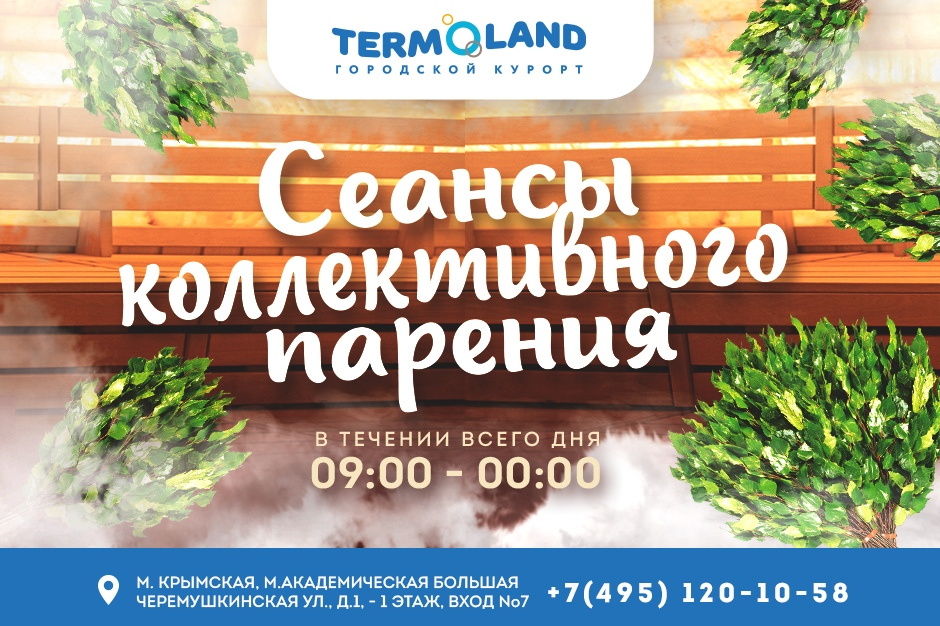
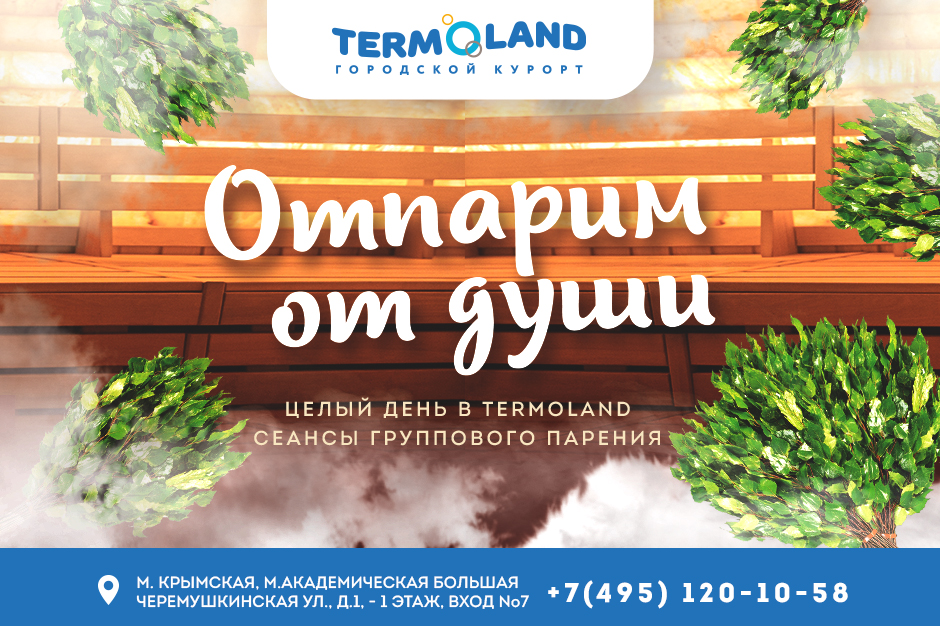
change share

diff --git a/index.html b/index.html
@@ -1244,9 +1244,6 @@
 						<a href="#second-share" class="shares__img popup-link">
 							<img src="images/content_img/shares/02.jpg" alt="">
 						</a>
-						<a href="#third-share" class="shares__img popup-link">
-							<img src="images/content_img/shares/03.jpg" alt="">
-						</a>
 						<a href="#fourth-share" class="shares__img popup-link">
 							<img src="images/content_img/shares/04.jpg" alt="">
 						</a>
@@ -1257,38 +1254,11 @@
 						<a href="#second-share" class="shares__img popup-link">
 							<img src="images/content_img/shares/02.jpg" alt="">
 						</a>
-						<a href="#third-share" class="shares__img popup-link">
-							<img src="images/content_img/shares/03.jpg" alt="">
-						</a>
 						<a href="#fourth-share" class="shares__img popup-link">
 							<img src="images/content_img/shares/04.jpg" alt="">
 						</a>
 
-						<a href="#first-share" class="shares__img popup-link">
-							<img src="images/content_img/shares/01.jpg" alt="">
-						</a>
-						<a href="#second-share" class="shares__img popup-link">
-							<img src="images/content_img/shares/02.jpg" alt="">
-						</a>
-						<a href="#third-share" class="shares__img popup-link">
-							<img src="images/content_img/shares/03.jpg" alt="">
-						</a>
-						<a href="#fourth-share" class="shares__img popup-link">
-							<img src="images/content_img/shares/04.jpg" alt="">
-						</a>
 
-						<a href="#first-share" class="shares__img popup-link">
-							<img src="images/content_img/shares/01.jpg" alt="">
-						</a>
-						<a href="#second-share" class="shares__img popup-link">
-							<img src="images/content_img/shares/02.jpg" alt="">
-						</a>
-						<a href="#third-share" class="shares__img popup-link">
-							<img src="images/content_img/shares/03.jpg" alt="">
-						</a>
-						<a href="#fourth-share" class="shares__img popup-link">
-							<img src="images/content_img/shares/04.jpg" alt="">
-						</a>
 					</div>
 				</div>
 			</section>
@@ -1676,28 +1646,17 @@
 		<div class="popup__wrapper">
 			<div class="popup__content-block popup__content">
 				<div class="popup__block">
-					<h2 class="popup__title">ХЕЛЛОУИН</h2>
+					<h2 class="popup__title"></h2>
 					<div class="popup__body">
 						<div class="popup__img">
 							<img src="images/content_img/shares/03.jpg" alt="">
 							<div>
-								<p class="popup__date-info">время действия акции 30 октября - 1 ноября</p>
-								<p class="popup__date-info">0+</p>
+								<p class="popup__date-info"></p>
+								<p class="popup__date-info"></p>
 							</div>
 						</div>
 						<div class="popup__info">
-							<p>Тебе будет страшно... Страшно круто!</p>
-							<p>Мы представляем самую оригинальную вечеринку этого года - РУССКИЙ НАРОДНЫЙ ХЕЛЛУИН</p>
-							<p>С 30 октября по 1 ноября вас ждут:<br>
-								- Парения с чемпионами России Артемом Казельским и Артемом Габдулиным<br>
-								- Ритуалы по защите от злых духов<br>
-								- Шаманские музыкальные парен<br>
-								- Мистические джакузи<br>
-								- Анимационная программа для детей<br>
-								- И ПЕРВЫЙ В МИРЕ тыквенный бассейн</p>
-							<p>ТАКОГО ЕЩЁ НЕ БЫЛО<br>
-								Меняйте планы на выходные!<br>
-								Ждем вас в гости!</p>
+							</p>
 						</div>
 					</div>
 					<a href="#" class="popup__btn btn close-popup">Классная акция!</a>
@@ -1710,7 +1669,7 @@
 		<div class="popup__wrapper">
 			<div class="popup__content-block popup__content">
 				<div class="popup__block">
-					<h2 class="popup__title">СЕАНСЫ ПАРЕНИЙ</h2>
+					<h2 class="popup__title">отпарим от души</h2>
 					<div class="popup__body">
 						<div class="popup__img">
 							<img src="images/content_img/shares/04.jpg" alt="">

diff --git a/css/style.css b/css/style.css
@@ -1148,7 +1148,6 @@ svg rect {
   font-size: 20px;
   line-height: 24px;
   text-align: center;
-  text-transform: lowercase;
   color: #ffffff;
 }
 

diff --git a/#source/scss/style.scss b/#source/scss/style.scss
@@ -892,7 +892,6 @@ svg {
 		font-size: 20px;
 		line-height: 24px;
 		text-align: center;
-		text-transform: lowercase;
 
 		color: #ffffff;
 
